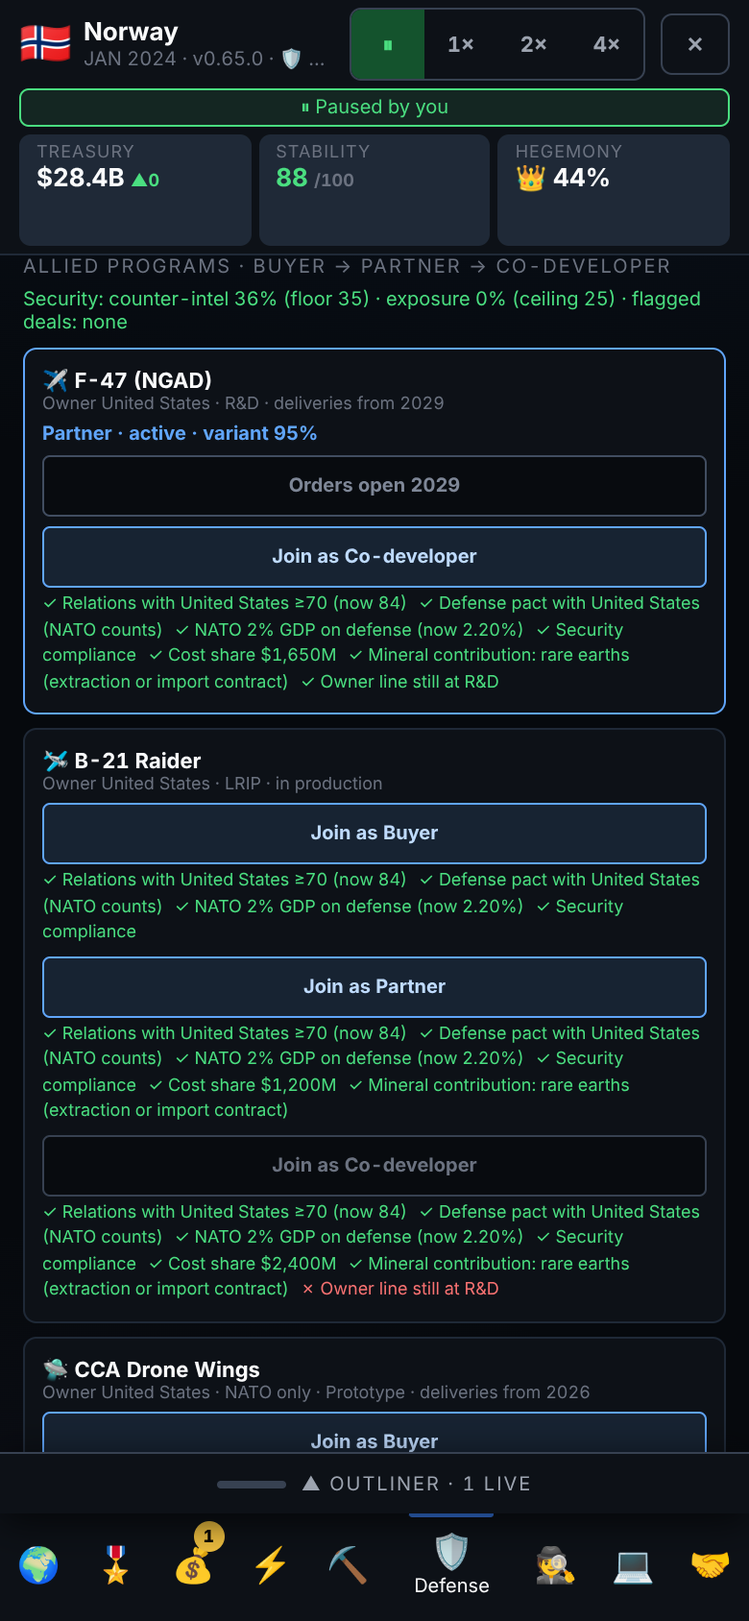
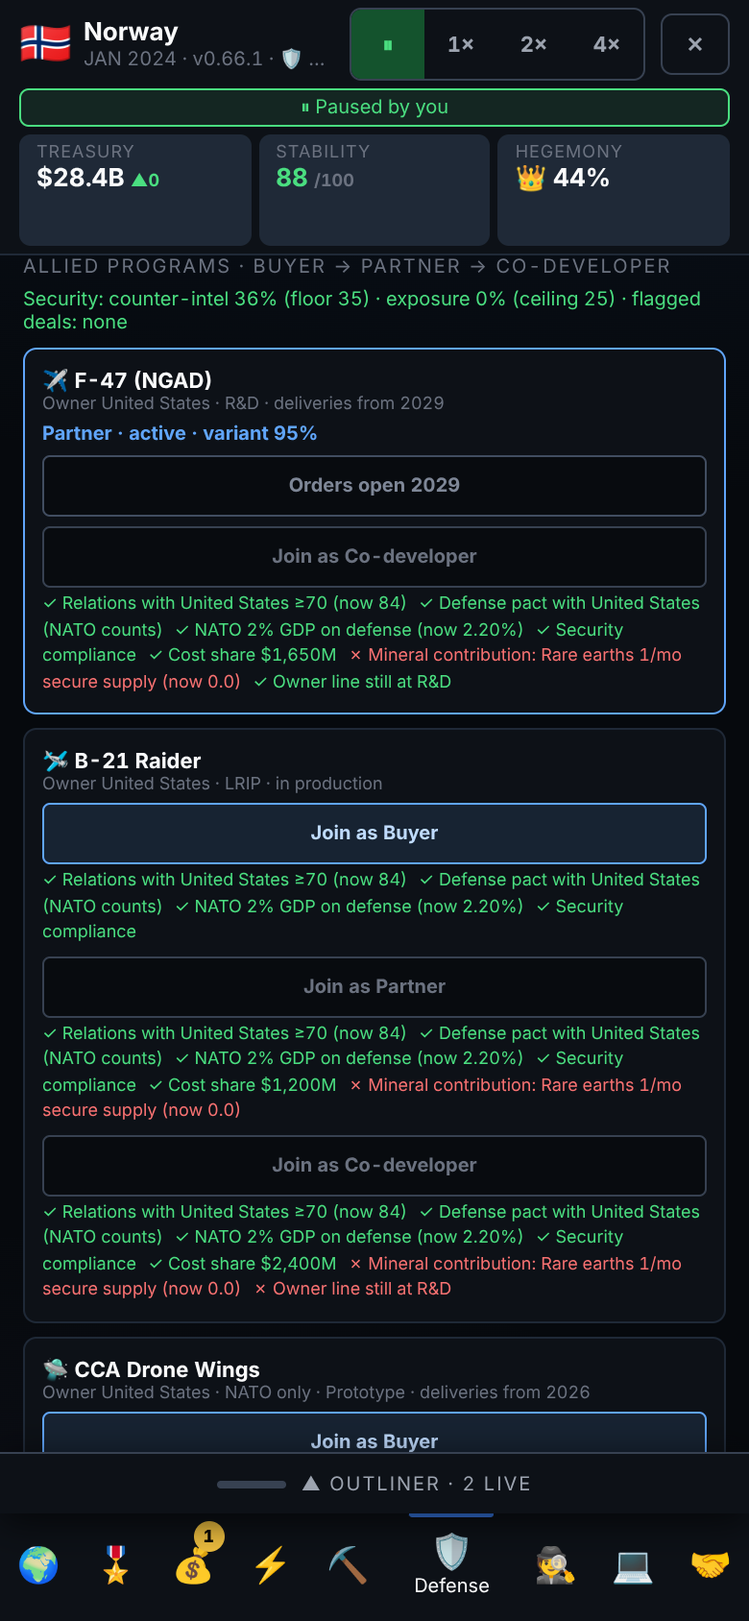
ui/resources+defense: minerals view and program supply line; 390px layout test, screenshots; v0.67.0 (E4, #16)
Claude-Session: https://claude.ai/code/session_012NiShB3VUyU1Tn8vBeinGh

diff --git a/src/ui/App.jsx b/src/ui/App.jsx
@@ -14,7 +14,9 @@ import { sumDep, isAllyOf, topHostile, wSum, isrScore, navalWeight, triadLegs, s
 import { naturalDrift } from '../sim/economy.js';
 import { runMonth } from '../sim/tick.js';
 import { applyVerb } from '../sim/actions.js';
-import { stateView, openingPosition, newArsenal } from '../sim/state.js';
+import { stateView, openingPosition, newArsenal, newMinerals } from '../sim/state.js';
+import { mineralView, programSupply, inputsOf } from '../sim/minerals.js';
+import { MINERALS, MINERAL_RULES } from '../data/minerals.js';
 import { blocTierReqs, blocCanAdvance, euTierNeed, blocGroups } from '../sim/selectors.js';
 import { VERSION, BUILD_STAMP } from './version.js';
 import { MapView } from './map/MapView.jsx';
@@ -112,6 +114,7 @@ function WorldLeadersInner({resumeSignal}){
   const [forcePosture,setForcePosture]=useState({});
   const [evState,setEvState]=useState(newEvState());
   const [arsenal,setArsenal]=useState(newArsenal());
+  const [minerals,setMinerals]=useState(newMinerals());const [openMineral,setOpenMineral]=useState(null);
   const [nukeLog,setNukeLog]=useState([]);
   const [embargoes,setEmbargoes]=useState(new Set());
   const [embargoedBy,setEmbargoedBy]=useState(null);
@@ -234,7 +237,7 @@ function WorldLeadersInner({resumeSignal}){
   const confCdR=useRef({});
   const postureR=useRef({});
   const evR=useRef(newEvState());
-  const arsR=useRef(newArsenal());
+  const arsR=useRef(newArsenal());const minR=useRef(newMinerals());
   const nukeR=useRef([]);
   const embgR=useRef(new Set());
   const embByR=useRef(null);
@@ -322,6 +325,7 @@ function WorldLeadersInner({resumeSignal}){
   useEffect(()=>{postureR.current=forcePosture;},[forcePosture]);
   useEffect(()=>{evR.current=evState;},[evState]);
   useEffect(()=>{arsR.current=arsenal;},[arsenal]);
+  useEffect(()=>{minR.current=minerals;},[minerals]);
   useEffect(()=>{embgR.current=embargoes;},[embargoes]);
   useEffect(()=>{sprR.current=spr;},[spr]);
   useEffect(()=>{sprRelR.current=sprRelease;},[sprRelease]);
@@ -348,7 +352,7 @@ function WorldLeadersInner({resumeSignal}){
   const ser=v=>v instanceof Set?{__set:[...v]}:v;
   const des=v=>(v&&typeof v==='object'&&Array.isArray(v.__set))?new Set(v.__set):v;
   const buildSave=()=>({ver:SAVE_VER,at:Date.now(),countryId:country?.id,doctrine,stats,date,tickCount:tickCountR.current,gracePeriod,issues,activeEffects,resources,resExtraction,defLevels,defResearch,spillApplied:ser(spillApplied),globalDef,defExports,sphere,intelOps,intelBudget,budgetAlloc,equilibriumStats,platforms,platformsImported,socialPrograms:ser(socialPrograms),victory,victoryShown,victoryType,hegHold,pathHold,personnelPay,procureMode,forceDeployments,flashpoint,gameSpeed,covertPrograms:ser(covertPrograms),intelInfra,moles,sanctions:ser(sanctions),importContracts:ser(importContracts),rivalHolds,nationRelations,embassies:ser(embassies),embassyMissions,influenceAlloc,influenceBudget,proxyAlloc,proxyBudget,sapOffice,blackPrograms,blackResearch,defensePacts:ser(defensePacts),tradeAgreements:ser(tradeAgreements),continuousOps,talentRetention,expertiseLease,rivalTension,intelPosture,blockades,blocTrade,blocLock,opecSwing,usedTech:ser(usedTech),worldEvent,demand,currencyPosture,ipPortfolio,ipPolicy,sectorMaturity,sectorAge,grrbState,activePolicies:ser(activePolicies),actionCooldowns,darpaDisc,usedDecisions:ser(usedDecisions),interestRate,taxPolicy,spendingMode,log,gameOver,
-    forcePosture,evState,arsenal,spr,sprRelease,concessions:ser(concessions),stewardship,exportShare,chokeDeals,platformDev,developed:ser(developed),nukeLog,embargoes:ser(embargoes),embargoedBy,refs:{respCd:respCdR.current,disinfo:disinfoR.current,expel:expelR.current,embLock:embLockR.current,ret:retR.current,ip:ipR.current,pariah:pariahR.current,confCd:confCdR.current}});
+    forcePosture,evState,arsenal,minerals,spr,sprRelease,concessions:ser(concessions),stewardship,exportShare,chokeDeals,platformDev,developed:ser(developed),nukeLog,embargoes:ser(embargoes),embargoedBy,refs:{respCd:respCdR.current,disinfo:disinfoR.current,expel:expelR.current,embLock:embLockR.current,ret:retR.current,ip:ipR.current,pariah:pariahR.current,confCd:confCdR.current}});
   const saveGame=async()=>{try{if(!window.storage||phase!=='play'||!country)return;await window.storage.set('wl_save',JSON.stringify(buildSave()));setLastSaved(`${MONTHS[date.mo]} ${date.yr}`);}catch(e){}};
   const restoreGame=async()=>{try{
     const r=await window.storage.get('wl_save');const g=JSON.parse(r.value);if(!g||g.ver!==SAVE_VER)return false;
@@ -372,11 +376,11 @@ function WorldLeadersInner({resumeSignal}){
     setIpPortfolio(g.ipPortfolio||0);ipR.current=g.refs?.ip??g.ipPortfolio??0;S(setIpPolicy,ipPolR,g.ipPolicy||'balanced');S(setSectorMaturity,maturityR,g.sectorMaturity||{});S(setSectorAge,ageR,g.sectorAge||{});
     S(setGrrbState,grrbR,g.grrbState||{surveying:false,surveyMo:0,unlocked:false});S(setActivePolicies,apR,des(g.activePolicies)||new Set());S(setActionCooldowns,cdR,g.actionCooldowns||{});setDarpaDisc(g.darpaDisc||0);S(setUsedDecisions,usedR,des(g.usedDecisions)||new Set());
     S(setInterestRate,irR,g.interestRate??4);S(setTaxPolicy,taxR,g.taxPolicy??28);S(setSpendingMode,spdR,g.spendingMode||'balanced');setLog(g.log||[]);setGameOver(g.gameOver||null);
-    respCdR.current=g.refs?.respCd||{};disinfoR.current=g.refs?.disinfo||{};pariahR.current=g.refs?.pariah||0;setPariah(pariahR.current);confCdR.current=g.refs?.confCd||{};S(setForcePosture,postureR,g.forcePosture||{});S(setEvState,evR,g.evState||newEvState());S(setArsenal,arsR,g.arsenal||newArsenal());S(setSpr,sprR,g.spr||0);S(setSprRelease,sprRelR,!!g.sprRelease);S(setConcessions,concR,des(g.concessions)||new Set());S(setStewardship,stewR,g.stewardship||{});S(setExportShare,shareR,g.exportShare||{oil:0.6,gas:0.6});S(setChokeDeals,cdealR,g.chokeDeals||{});S(setPlatformDev,pdevR,g.platformDev||{});S(setDeveloped,devR,des(g.developed)||new Set());setNukeLog(g.nukeLog||[]);nukeR.current=g.nukeLog||[];S(setEmbargoes,embgR,des(g.embargoes)||new Set());setEmbargoedBy(g.embargoedBy||null);embByR.current=g.embargoedBy||null;expelR.current=g.refs?.expel||{};embLockR.current=g.refs?.embLock||{};
+    respCdR.current=g.refs?.respCd||{};disinfoR.current=g.refs?.disinfo||{};pariahR.current=g.refs?.pariah||0;setPariah(pariahR.current);confCdR.current=g.refs?.confCd||{};S(setForcePosture,postureR,g.forcePosture||{});S(setEvState,evR,g.evState||newEvState());S(setArsenal,arsR,g.arsenal||newArsenal());S(setMinerals,minR,g.minerals||newMinerals(g.countryId));S(setSpr,sprR,g.spr||0);S(setSprRelease,sprRelR,!!g.sprRelease);S(setConcessions,concR,des(g.concessions)||new Set());S(setStewardship,stewR,g.stewardship||{});S(setExportShare,shareR,g.exportShare||{oil:0.6,gas:0.6});S(setChokeDeals,cdealR,g.chokeDeals||{});S(setPlatformDev,pdevR,g.platformDev||{});S(setDeveloped,devR,des(g.developed)||new Set());setNukeLog(g.nukeLog||[]);nukeR.current=g.nukeLog||[];S(setEmbargoes,embgR,des(g.embargoes)||new Set());setEmbargoedBy(g.embargoedBy||null);embByR.current=g.embargoedBy||null;expelR.current=g.refs?.expel||{};embLockR.current=g.refs?.embLock||{};
     setActiveTab('overview');setPhase('play');setLastSaved(`${MONTHS[g.date.mo]} ${g.date.yr}`);return true;}catch(e){try{console.error('restore failed',e);}catch(x){}return false;}};
   useEffect(()=>{(async()=>{try{if(!window.storage)return;const r=await window.storage.get('wl_save');const g=JSON.parse(r.value);if(g&&g.ver===SAVE_VER&&g.countryId){const cc=COUNTRIES.find(x=>x.id===g.countryId);setSaveInfo({flag:cc?.flag,name:cc?.n||g.countryId,when:`${MONTHS[g.date.mo]} ${g.date.yr}`});}}catch(e){}})();},[resumeSignal]);
   useEffect(()=>{if(phase==='play'&&date.mo%3===0&&tickCountR.current>0)saveGame();},[date.mo,date.yr,phase]);
-  useEffect(()=>{try{if(typeof window!=='undefined'&&window.__WL_TEST){window.__wl={month:()=>tick(),extract:(k,v)=>{extR.current={...extR.current,[k]:v};setResExtraction({...extR.current});},setTension:(cid,v)=>{setRivalTension(p=>({...p,[cid]:v}));tenR.current={...tenR.current,[cid]:v};},field:(id,n)=>{blackR.current={...blackR.current,[id]:n};setBlackPrograms({...blackR.current});},fund:v=>setStats(p=>({...p,treasury:v})),platforms:o=>{platformsR.current={...platformsR.current,...o};setPlatforms({...platformsR.current});},levels:o=>{dlR.current={...dlR.current,...o};setDefLevels({...dlR.current});},event:(id,mo)=>{wEvR.current={id,mo};setWorldEvent({id,mo});},flashpoint:(rid,type,t)=>{const fp={rid,type,t};fpR.current=fp;setFlashpoint(fp);},deploy:(rid,pid,n)=>{setForceDeployments(pr=>{const n2={...pr,[rid]:{...(pr[rid]||{}),[pid]:n}};fdR.current=n2;return n2;});},stat:(k,v)=>{setStats(p=>({...p,[k]:v}));if(sR.current)sR.current={...sR.current,[k]:v};},rel:(id,v)=>{setNationRelations(p=>({...p,[id]:v}));relR.current={...relR.current,[id]:v};},unfreeze:()=>{setBlocLock({});bLockR.current={};},embargoBy:(by,mo)=>{const e={by,mo};embByR.current=e;setEmbargoedBy(e);},imports:(ks)=>{const n2=new Set(ks);impCR.current=n2;setImportContracts(n2);},sanction:(id)=>{setSanctions(prev=>{const n2=new Set(prev);n2.add(id);sanctR.current=n2;return n2;});}};}}catch(e){}},[]);
+  useEffect(()=>{try{if(typeof window!=='undefined'&&window.__WL_TEST){window.__wl={month:()=>tick(),extract:(k,v)=>{extR.current={...extR.current,[k]:v};setResExtraction({...extR.current});},setTension:(cid,v)=>{setRivalTension(p=>({...p,[cid]:v}));tenR.current={...tenR.current,[cid]:v};},field:(id,n)=>{blackR.current={...blackR.current,[id]:n};setBlackPrograms({...blackR.current});},fund:v=>setStats(p=>({...p,treasury:v})),platforms:o=>{platformsR.current={...platformsR.current,...o};setPlatforms({...platformsR.current});},levels:o=>{dlR.current={...dlR.current,...o};setDefLevels({...dlR.current});},event:(id,mo)=>{wEvR.current={id,mo};setWorldEvent({id,mo});},flashpoint:(rid,type,t)=>{const fp={rid,type,t};fpR.current=fp;setFlashpoint(fp);},deploy:(rid,pid,n)=>{setForceDeployments(pr=>{const n2={...pr,[rid]:{...(pr[rid]||{}),[pid]:n}};fdR.current=n2;return n2;});},stat:(k,v)=>{setStats(p=>({...p,[k]:v}));if(sR.current)sR.current={...sR.current,[k]:v};},rel:(id,v)=>{setNationRelations(p=>({...p,[id]:v}));relR.current={...relR.current,[id]:v};},unfreeze:()=>{setBlocLock({});bLockR.current={};},embargoBy:(by,mo)=>{const e={by,mo};embByR.current=e;setEmbargoedBy(e);},imports:(ks)=>{const n2=new Set(ks);impCR.current=n2;setImportContracts(n2);},minerals:(o)=>{minR.current={...minR.current,...o};setMinerals(minR.current);},mineral:(m,o)=>{const own={...minR.current.own,[m]:{...minR.current.own[m],...o}};minR.current={...minR.current,own};setMinerals(minR.current);},sanction:(id)=>{setSanctions(prev=>{const n2=new Set(prev);n2.add(id);sanctR.current=n2;return n2;});}};}}catch(e){}},[]);
   const startGame=useCallback(c=>{
     const {stats:s,issues:pre,resources:initRes,sphere:initSphere,globalDef:excGDB,defLevels:sd,nationRelations:baseRel,prevSectorLevels}=openingPosition(c);
     setCountry(c);setStats(s);setIssues(pre);setInterestRate(c.ir||4.0);
@@ -415,7 +419,7 @@ function WorldLeadersInner({resumeSignal}){
     setEmbassies(new Set());embR.current=new Set();
     setInfluenceAlloc({});iaR.current={};setInfluenceBudget(0);ibR.current=0;
     setDefensePacts(new Set());pactR.current=new Set();setTradeAgreements(new Set());tradeAgR.current=new Set();setSelDipNation(null);
-    setContinuousOps({});contOpsR.current={};setTalentRetention(70);setExpertiseLease(0);leaseR.current=0;retR.current=70;tickCountR.current=0;respCdR.current={};setRivalTension({});tenR.current={};setIntelPosture('quiet');postR.current='quiet';setBlockades({});blkR.current={};setConfrontation(null);disinfoR.current={};expelR.current={};setBlocTrade({eu:0,cn:0,opec:0});btR.current={eu:0,cn:0,opec:0};setBlocLock({});bLockR.current={};setOpecSwing(null);swingR.current=null;setUsedTech(new Set());setWorldEvent(null);wEvR.current=null;setDemand({});demR.current={};setCurrencyPosture('neutral');curR.current='neutral';setEmbassyMissions({});embMisR.current={};embLockR.current={};setUltimatum(null);ultR.current=null;setPariah(0);pariahR.current=0;confCdR.current={};setForcePosture({});postureR.current={};setEvState(newEvState());evR.current=newEvState();setArsenal(newArsenal(c.id));arsR.current=newArsenal(c.id);setNukeLog([]);nukeR.current=[];setEmbargoes(new Set());embgR.current=new Set();setEmbargoedBy(null);embByR.current=null;setSpr(0);sprR.current=0;setSprRelease(false);sprRelR.current=false;setConcessions(new Set());concR.current=new Set();setChokeStatus({});chokeR.current={};setStewardship({});stewR.current={};setExportShare({oil:0.6,gas:0.6});shareR.current={oil:0.6,gas:0.6};setChokeDeals({});cdealR.current={};setPlatformDev({});pdevR.current={};setDeveloped(new Set());devR.current=new Set();setVictoryType('hegemony');setPathHold({econ:0,tech:0,dip:0});pathHoldR.current={econ:0,tech:0,dip:0};setIpPortfolio(0);ipR.current=0;setIpPolicy('balanced');ipPolR.current='balanced';
+    setContinuousOps({});contOpsR.current={};setTalentRetention(70);setExpertiseLease(0);leaseR.current=0;retR.current=70;tickCountR.current=0;respCdR.current={};setRivalTension({});tenR.current={};setIntelPosture('quiet');postR.current='quiet';setBlockades({});blkR.current={};setConfrontation(null);disinfoR.current={};expelR.current={};setBlocTrade({eu:0,cn:0,opec:0});btR.current={eu:0,cn:0,opec:0};setBlocLock({});bLockR.current={};setOpecSwing(null);swingR.current=null;setUsedTech(new Set());setWorldEvent(null);wEvR.current=null;setDemand({});demR.current={};setCurrencyPosture('neutral');curR.current='neutral';setEmbassyMissions({});embMisR.current={};embLockR.current={};setUltimatum(null);ultR.current=null;setPariah(0);pariahR.current=0;confCdR.current={};setForcePosture({});postureR.current={};setEvState(newEvState());evR.current=newEvState();setArsenal(newArsenal(c.id));arsR.current=newArsenal(c.id);setMinerals(newMinerals(c.id));minR.current=newMinerals(c.id);setNukeLog([]);nukeR.current=[];setEmbargoes(new Set());embgR.current=new Set();setEmbargoedBy(null);embByR.current=null;setSpr(0);sprR.current=0;setSprRelease(false);sprRelR.current=false;setConcessions(new Set());concR.current=new Set();setChokeStatus({});chokeR.current={};setStewardship({});stewR.current={};setExportShare({oil:0.6,gas:0.6});shareR.current={oil:0.6,gas:0.6};setChokeDeals({});cdealR.current={};setPlatformDev({});pdevR.current={};setDeveloped(new Set());devR.current=new Set();setVictoryType('hegemony');setPathHold({econ:0,tech:0,dip:0});pathHoldR.current={econ:0,tech:0,dip:0};setIpPortfolio(0);ipR.current=0;setIpPolicy('balanced');ipPolR.current='balanced';
     setProxyAlloc({});paR.current={};setProxyBudget(0);pbR.current=0;
     setSapOffice(false);sapR.current=false;setBlackPrograms({});blackR.current={};setBlackResearch(null);blackResR.current=null;
     setFlashpoint(null);fpR.current=null;
@@ -441,8 +445,8 @@ function WorldLeadersInner({resumeSignal}){
   // dispatch({type, payload}) into applyVerb (actions.js). The UI keeps only presentation state.
   const evView={worldEvent,flashpoint,stats:stats||{},spr,forceDeployments,chokeDeals,country,nationRelations,date,rivalTension,activeDecision};
   const evOpen=openEventCards(evView);
-  const liveState=()=>stateView({stats:sR,country:cR,issues:issR,investigations:invR,deployments:depR,briefs:brR,date:dateR,activeEffects:aeR,resources:resR,resExtraction:extR,defLevels:dlR,defResearch:drR,spillApplied:spR,globalDef:gdR,defExports:exR,sphere:sphR,activePolicies:apR,actionCooldowns:cdR,darpaDisc:ddR,activeDecision:decR,usedDecisions:usedR,interestRate:irR,taxPolicy:taxR,spendingMode:spdR,intelOps:intelR,grrbState:grrbR,budgetAlloc:budgetR,equilibriumStats:equilibriumR,gracePeriod:graceR,intelBudget:intelBudgetR,doctrine:doctrineR,platforms:platformsR,socialPrograms:socialR,victory:victoryR,hegHold:hegHoldR,personnelPay:payR,procureMode:procR,forceDeployments:fdR,flashpoint:fpR,sphereSnapshot:trendSnapR,trendTimer:trendTimerR,platformsImported:impR,covertPrograms:covR,foreignOpTimer:foreignOpR,absorbBonus:absorbR,intelInfra:infraR,moles:molesR,sanctions:sanctR,importContracts:impCR,nationRelations:relR,embassies:embR,influenceAlloc:iaR,influenceBudget:ibR,proxyAlloc:paR,proxyBudget:pbR,sapOffice:sapR,blackPrograms:blackR,blackResearch:blackResR,defensePacts:pactR,tradeAgreements:tradeAgR,continuousOps:contOpsR,expertiseLease:leaseR,talentRetention:retR,tickCount:tickCountR,ipPortfolio:ipR,ipPolicy:ipPolR,dominance:domR,dominanceLeverage:domLevR,noticeCooldowns:respCdR,rivalTension:tenR,intelPosture:postR,blockades:blkR,disinfo:disinfoR,expelled:expelR,confrontation:confR,blocTrade:btR,blocLock:bLockR,opecSwing:swingR,worldEvent:wEvR,demand:demR,currencyPosture:curR,embassyMissions:embMisR,embassyLocks:embLockR,ultimatum:ultR,pariah:pariahR,confrontationCooldowns:confCdR,forcePosture:postureR,evState:evR,arsenal:arsR,nukeLog:nukeR,embargoes:embgR,embargoedBy:embByR,spr:sprR,sprRelease:sprRelR,concessions:concR,chokeStatus:chokeR,stewardship:stewR,exportShare:shareR,chokeDeals:cdealR,platformDev:pdevR,developed:devR,pathHold:pathHoldR,usedTech:usedTechR,rivalHolds:rivalHoldR,sectorMaturity:maturityR,sectorAge:ageR,prevSectorLevels:prevLvlR,decisionTimer:decTimer,pressureTimer:compTimer});
-  const sink={setCountry,setStats,setIssues,setInvestigations,setBriefs,setDeployments,setActiveEffects,setResources,setResExtraction,setDefLevels,setDefResearch,setSpillApplied,setGlobalDef,setDefExports,setSphere,setIntelOps,setIntelBudget,setBudgetAlloc,setEquilibriumStats,setGracePeriod,setDoctrine,setPlatforms,setSocialPrograms,setVictory,setHegHold,setPersonnelPay,setProcureMode,setForceDeployments,setFlashpoint,setSphereTrend,setPlatformsImported,setCovertPrograms,setIntelInfra,setMoles,setSanctions,setImportContracts,setRivalHolds,setNationRelations,setEmbassies,setInfluenceAlloc,setInfluenceBudget,setProxyAlloc,setProxyBudget,setSapOffice,setBlackPrograms,setBlackResearch,setDefensePacts,setTradeAgreements,setContinuousOps,setTalentRetention,setExpertiseLease,setRivalTension,setIntelPosture,setBlockades,setConfrontation,setBlocTrade,setBlocLock,setOpecSwing,setLedger,setUsedTech,setWorldEvent,setDemand,setCurrencyPosture,setEmbassyMissions,setUltimatum,setPariah,setForcePosture,setEvState,setArsenal,setNukeLog,setEmbargoes,setEmbargoedBy,setSpr,setSprRelease,setConcessions,setChokeStatus,setStewardship,setExportShare,setChokeDeals,setPlatformDev,setDeveloped,setVictoryType,setPathHold,setIpPortfolio,setIpPolicy,setSectorMaturity,setSectorAge,setIntelCrisis,setGrrbState,setActivePolicies,setActionCooldowns,setDarpaDisc,setActiveDecision,setUsedDecisions,setInterestRate,setTaxPolicy,setSpendingMode,setDate,setLog,setStatsTrend,setGameOver};
+  const liveState=()=>stateView({stats:sR,country:cR,issues:issR,investigations:invR,deployments:depR,briefs:brR,date:dateR,activeEffects:aeR,resources:resR,resExtraction:extR,defLevels:dlR,defResearch:drR,spillApplied:spR,globalDef:gdR,defExports:exR,sphere:sphR,activePolicies:apR,actionCooldowns:cdR,darpaDisc:ddR,activeDecision:decR,usedDecisions:usedR,interestRate:irR,taxPolicy:taxR,spendingMode:spdR,intelOps:intelR,grrbState:grrbR,budgetAlloc:budgetR,equilibriumStats:equilibriumR,gracePeriod:graceR,intelBudget:intelBudgetR,doctrine:doctrineR,platforms:platformsR,socialPrograms:socialR,victory:victoryR,hegHold:hegHoldR,personnelPay:payR,procureMode:procR,forceDeployments:fdR,flashpoint:fpR,sphereSnapshot:trendSnapR,trendTimer:trendTimerR,platformsImported:impR,covertPrograms:covR,foreignOpTimer:foreignOpR,absorbBonus:absorbR,intelInfra:infraR,moles:molesR,sanctions:sanctR,importContracts:impCR,nationRelations:relR,embassies:embR,influenceAlloc:iaR,influenceBudget:ibR,proxyAlloc:paR,proxyBudget:pbR,sapOffice:sapR,blackPrograms:blackR,blackResearch:blackResR,defensePacts:pactR,tradeAgreements:tradeAgR,continuousOps:contOpsR,expertiseLease:leaseR,talentRetention:retR,tickCount:tickCountR,ipPortfolio:ipR,ipPolicy:ipPolR,dominance:domR,dominanceLeverage:domLevR,noticeCooldowns:respCdR,rivalTension:tenR,intelPosture:postR,blockades:blkR,disinfo:disinfoR,expelled:expelR,confrontation:confR,blocTrade:btR,blocLock:bLockR,opecSwing:swingR,worldEvent:wEvR,demand:demR,currencyPosture:curR,embassyMissions:embMisR,embassyLocks:embLockR,ultimatum:ultR,pariah:pariahR,confrontationCooldowns:confCdR,forcePosture:postureR,evState:evR,arsenal:arsR,minerals:minR,nukeLog:nukeR,embargoes:embgR,embargoedBy:embByR,spr:sprR,sprRelease:sprRelR,concessions:concR,chokeStatus:chokeR,stewardship:stewR,exportShare:shareR,chokeDeals:cdealR,platformDev:pdevR,developed:devR,pathHold:pathHoldR,usedTech:usedTechR,rivalHolds:rivalHoldR,sectorMaturity:maturityR,sectorAge:ageR,prevSectorLevels:prevLvlR,decisionTimer:decTimer,pressureTimer:compTimer});
+  const sink={setCountry,setStats,setIssues,setInvestigations,setBriefs,setDeployments,setActiveEffects,setResources,setResExtraction,setDefLevels,setDefResearch,setSpillApplied,setGlobalDef,setDefExports,setSphere,setIntelOps,setIntelBudget,setBudgetAlloc,setEquilibriumStats,setGracePeriod,setDoctrine,setPlatforms,setSocialPrograms,setVictory,setHegHold,setPersonnelPay,setProcureMode,setForceDeployments,setFlashpoint,setSphereTrend,setPlatformsImported,setCovertPrograms,setIntelInfra,setMoles,setSanctions,setImportContracts,setRivalHolds,setNationRelations,setEmbassies,setInfluenceAlloc,setInfluenceBudget,setProxyAlloc,setProxyBudget,setSapOffice,setBlackPrograms,setBlackResearch,setDefensePacts,setTradeAgreements,setContinuousOps,setTalentRetention,setExpertiseLease,setRivalTension,setIntelPosture,setBlockades,setConfrontation,setBlocTrade,setBlocLock,setOpecSwing,setLedger,setUsedTech,setWorldEvent,setDemand,setCurrencyPosture,setEmbassyMissions,setUltimatum,setPariah,setForcePosture,setEvState,setArsenal,setMinerals,setNukeLog,setEmbargoes,setEmbargoedBy,setSpr,setSprRelease,setConcessions,setChokeStatus,setStewardship,setExportShare,setChokeDeals,setPlatformDev,setDeveloped,setVictoryType,setPathHold,setIpPortfolio,setIpPolicy,setSectorMaturity,setSectorAge,setIntelCrisis,setGrrbState,setActivePolicies,setActionCooldowns,setDarpaDisc,setActiveDecision,setUsedDecisions,setInterestRate,setTaxPolicy,setSpendingMode,setDate,setLog,setStatsTrend,setGameOver};
   const engineFx={toast:showToast,now:()=>Date.now(),defer:(fn,ms)=>setTimeout(fn,ms)};
   const dispatch=useCallback(a=>applyVerb(liveState(),sink,engineFx,a),[showToast]);
 
@@ -1259,6 +1263,35 @@ function WorldLeadersInner({resumeSignal}){
                 {[['☀','Solar','solar','#fbbf24'],['💨','Wind','wind','#60a5fa'],['💧','Hydro','hydro','#4ade80']].map(([em,n,k,col])=>{const lvl=resources?.renewable?.[k]||0;return <div key={k} style={{background:'#111827',borderRadius:'5px',padding:'8px',textAlign:'center'}}><div style={{fontSize:'16px'}}>{em}</div><div style={{fontSize:'11px',color:'#9ca3af',marginBottom:'4px'}}>{n}</div><div style={{display:'flex',gap:'2px',justifyContent:'center'}}>{Array.from({length:5}).map((_,i)=><div key={i} style={{width:'6px',height:'6px',borderRadius:'50%',background:i<lvl?col:'#374151'}}/>)}</div><button onClick={()=>dispatch({type:'buildRenewable',payload:{kind:k}})} style={{marginTop:'5px',width:'100%',background:lvl>=5?'transparent':'rgba(0,0,0,.4)',border:`1px solid ${lvl>=5?'#374151':col}`,color:lvl>=5?'#4b5563':col,padding:'4px',borderRadius:'3px',fontSize:'10px'}}>{lvl>=5?'Max':`+$400M`}</button></div>;})}</div>
             </div>
           </div>
+          {/* E4 (#16): minerals and processing. Minimal lever UI; E5 redesigns it. Rows and costs from mineralView (one rule with the month). */}
+          {(()=>{const v={country,minerals,nationRelations};const rows=mineralView(v);const R=MINERAL_RULES;const nb=NATIONS[country?.id]?.bloc;const canPact=nb==='west'||nb==='east';
+            const btn=(on,warn)=>({background:on?'rgba(167,139,250,.12)':'rgba(0,0,0,.35)',border:`1px solid ${warn?'#f87171':on?'#a78bfa':'#374151'}`,color:warn?'#fca5a5':on?'#ddd6fe':'#9ca3af',padding:'6px 8px',borderRadius:'4px',fontSize:'10px',fontWeight:700,minHeight:'32px'});
+            const f1=(x)=>x.toFixed(1);
+            return <div data-minerals style={{maxWidth:'650px',marginTop:'14px'}}>
+              <div style={{fontSize:'10px',color:'#6b7280',textTransform:'uppercase',letterSpacing:'1px',marginBottom:'5px'}}>Minerals · ore → processing → refined stockpile</div>
+              <div style={{fontSize:'10px',color:'#9ca3af',marginBottom:'7px',lineHeight:1.5}}>Production tranches draw refined minerals; a shortfall slows the line, never cancels it. 1 unit/mo ≈ 1% of world refining.</div>
+              {canPact&&<button onClick={()=>dispatch({type:'toggleProcessingPact',payload:{}})} style={{...btn(minerals.pact),width:'100%',marginBottom:'7px'}}>{minerals.pact?`🤝 Processing pact active · $${R.pact.cost}M/mo — end`:`🤝 Processing pact · bloc partners supply you first — $${R.pact.cost}M/mo`}</button>}
+              <div style={{display:'grid',gap:'6px'}}>{rows.map(r=>{const open=openMineral===r.id;const short=r.controlledBy.length>0;
+                return <div key={r.id} data-mineral={r.id} style={{background:'#0d1117',border:`1px solid ${short?'#7f1d1d':open?'#a78bfa':'#1f2937'}`,borderRadius:'7px',padding:'8px',minWidth:0}}>
+                  <button data-mineral-head onClick={()=>setOpenMineral(open?null:r.id)} style={{all:'unset',cursor:'pointer',display:'block',width:'100%'}}>
+                    <div style={{display:'flex',justifyContent:'space-between',gap:'6px',fontSize:'11px',fontWeight:700,color:'#f9fafb'}}><span>{r.i} {r.n}</span><span style={{color:r.stock<5?'#f87171':'#a3e635'}}>{Math.floor(r.stock)}/{R.stockMax}</span></div>
+                    <div style={{fontSize:'9px',color:'#9ca3af',marginTop:'2px'}}>ore {Math.round(r.ore)} · processing {r.cap}/mo · in +{f1(r.flow.total)}/mo{r.reserve?` · reserve ${r.reserve}`:''}{short?<span style={{color:'#f87171'}}> · ⛔ {r.controlledBy.join(', ')} {r.controlledBy.length>1?'control':'controls'} exports</span>:''}{r.controlled?<span style={{color:'#fbbf24'}}> · 🔒 you control</span>:''}</div>
+                  </button>
+                  {open&&<div style={{marginTop:'6px',display:'grid',gap:'5px'}}>
+                    <div style={{fontSize:'9px',color:'#6b7280',lineHeight:1.5}}>Use: {r.use}. Inflow: home {f1(r.flow.dom)} · recycling {f1(r.flow.rec)} · offtake {f1(r.flow.off)} · pact {f1(r.flow.pact)} · market {f1(r.flow.mkt)} · secure {f1(r.flow.secure)}/mo{r.upkeep?` · costs $${r.upkeep}M/mo`:''}</div>
+                    <div style={{fontSize:'9px',color:'#d1d5db'}}>reserve {r.reserve}/{R.reserveMax} · {r.releasing?'releasing':'on hold'}{r.built?` · ${r.built} plant${r.built>1?'s':''} built`:''}{r.plants.map((p,i)=><span key={i}> · 🏗 plant {p.mo}mo</span>)}</div>
+                    {r.deals.map(d=><div key={d.n} style={{display:'flex',justifyContent:'space-between',alignItems:'center',gap:'6px',fontSize:'10px',color:d.paused?'#f87171':'#d1d5db'}}><span>📄 {d.name} {d.units}/mo · ${d.price}M/mo · {d.mo}mo{d.paused?' · paused':''}</span><button onClick={()=>dispatch({type:'cancelOfftake',payload:{mineral:r.id,nation:d.n}})} style={btn(false)}>Cancel</button></div>)}
+                    <div style={{display:'flex',flexWrap:'wrap',gap:'4px'}}>
+                      <button onClick={()=>dispatch({type:'buildPlant',payload:{mineral:r.id}})} style={btn(true)}>🏗 Build plant ${R.plant.capex.toLocaleString()}M · {R.plant.mo}mo · +{r.ore>0?R.plant.add:R.plant.add*R.noOreEff}/mo{r.ore>0?'':' (no ore: imported concentrate)'}</button>
+                      <button onClick={()=>dispatch({type:'buyStockpile',payload:{mineral:r.id}})} style={btn(true)}>📦 Buy reserve ${Math.round(R.stockpile.lot*r.price*R.stockpile.markup)}M</button>
+                      <button onClick={()=>dispatch({type:'toggleStockpileRelease',payload:{mineral:r.id}})} style={btn(r.releasing)}>{r.releasing?'⏸ Hold reserve':'▶ Release reserve'}</button>
+                      {r.id!=='enrichment'&&<button onClick={()=>dispatch({type:'toggleRecycling',payload:{mineral:r.id}})} style={btn(r.recycling)}>{r.recycling?'♻ Stop recycling':`♻ Recycle +${R.recycle.add}/mo · $${R.recycle.cost}M/mo`}</button>}
+                      {r.partners.map(pn=><button key={pn.id} onClick={()=>dispatch({type:'signOfftake',payload:{mineral:r.id,nation:pn.id}})} style={btn(true)}>📄 Offtake · {pn.n} {pn.units}/mo ${pn.price}M/mo</button>)}
+                      {r.canControl&&<button onClick={()=>dispatch({type:'toggleExportControl',payload:{mineral:r.id}})} style={btn(r.controlled,!r.controlled)}>{r.controlled?'🔓 Lift export control':`🔒 Export control · −${R.controls.relHit} relations`}</button>}
+                    </div>
+                  </div>}
+                </div>;})}</div>
+            </div>;})()}
         </div>}
 
         {/* DEFENSE TAB */}
@@ -1390,6 +1423,11 @@ function WorldLeadersInner({resumeSignal}){
                     {live?(()=>{const n=r.n;const runCost=r.cost;const canRun=!r.block;const indOk=!/industrial base/.test(r.block||'');
                       return <div>
                         <div style={{fontSize:'9px',color:'#a78bfa'}}>+{bp.mil} military{bp.isr?` · +${bp.isr} ISR`:bp.bonus==='multiplier'?' · air ×1.15':bp.bonus==='deterrent'?' · nuclear deterrent':''} · <b style={{color:'#c4b5fd'}}>{n} unit{n===1?'':'s'}</b>{n>0?` · force mil +${Math.round(bp.mil*Math.sqrt(n))} · next tranche at ${Math.round(sapRate(r.stage==='full'?Math.max(n,6):n)*100)}% of program`:''}</div>
+                        {(()=>{const sp=programSupply({country,minerals},bid);const q=sp.queued;const nm=(m)=>MINERALS[m]?.n||m;
+                          return <div data-supply style={{fontSize:'9px',marginTop:'3px',color:q.length?'#f87171':sp.coverage<1?'#fbbf24':'#6b7280',lineHeight:1.5}}>
+                            {q.length?<b>⏳ {q.length} tranche{q.length>1?'s':''} slowed: {nm(q[0].binding)} short · ~{q[0].months===Infinity?'∞':q[0].months}mo</b>:<span>Supply {Math.round(sp.coverage*100)}%{sp.binding?` · short of ${nm(sp.binding)}`:''}</span>}
+                            <span style={{color:'#6b7280'}}> · per tranche {Object.entries(inputsOf(bid)).map(([m,u])=>`${MINERALS[m].i}${u}`).join(' ')}</span>
+                          </div>;})()}
                         <button onClick={()=>dispatch({type:'sapTranche',payload:{program:bid}})} style={{marginTop:'4px',width:'100%',background:canRun?'rgba(167,139,250,.12)':'rgba(0,0,0,.35)',border:`1px solid ${canRun?'#a78bfa':'#374151'}`,color:canRun?'#c4b5fd':'#4b5563',padding:'5px',borderRadius:'4px',fontSize:'10px',fontWeight:700}}>{n>0?`🏭 Tranche #${n+1} — $${runCost}M${indOk?'':' · needs Materials L4'}`:`🏭 Produce ${bp.n} — $${runCost}M`}</button>
                       </div>;})()
                     :researching?<div style={{fontSize:'10px',color:'#3b82f6',fontWeight:700}}>⏳ {r.monthsLeft}mo to {r.start==='proto'?'LRIP':'operational'}</div>

diff --git a/scripts/screens.js b/scripts/screens.js
@@ -67,17 +67,38 @@ SCENARIOS['e3-china-catalog-390'] = async (page) => {
   await press('j36', 'Fund prototype'); await settle(page, 200); await press('j50', 'Fund prototype'); await settle(page, 200);
   await settle(page, 4500); await catalogShot(page, 'j36');
 };
-// E7 (#19): Norway's F-47 partnership: gates before joining, then Buyer -> Partner after supplying rare earths.
+// E7 (#19): Norway's F-47 partnership: gates before joining, then Buyer -> Partner after supplying rare earths (E4: a recycling line).
 const norwayAccess = async (page, join) => {
   await startNation(page, 'Norway'); await pause(page);
   await page.evaluate(() => { const h = window.__wl; h.fund(30000); h.rel('usa', 78); }); await settle(page, 300);
   await page.evaluate(() => document.querySelector('[data-tab=defense]').click()); await settle(page, 400);
   const press = (re) => page.evaluate((r) => [...document.querySelectorAll('[data-access=f47] button')].find((b) => new RegExp(r).test(b.textContent))?.click(), re);
-  if (join) { await press('Join as Buyer'); await settle(page, 200); await page.evaluate(() => window.__wl.extract('rareEarth', 1)); await settle(page, 300); await press('Join as Partner'); await settle(page, 4500); }
+  if (join) { await press('Join as Buyer'); await settle(page, 200); await page.evaluate(() => window.__wl.minerals({ recycle: ['rareEarth'] })); await settle(page, 300); await press('Join as Partner'); await settle(page, 4500); }
   await page.evaluate(() => document.querySelector('[data-partnerships]').scrollIntoView({ block: 'start' })); await settle(page, 400);
 };
 SCENARIOS['e7-norway-gates-390'] = (page) => norwayAccess(page, false);
 SCENARIOS['e7-norway-partner-390'] = (page) => norwayAccess(page, true);
+// E4 (#16): the minerals view under Chinese export controls (gallium row open), and an F-35 tranche slowed by the shortfall.
+const IDS = ['rareEarth', 'gallium', 'germanium', 'graphite', 'lithium', 'cobalt', 'nickel', 'tungsten', 'titanium', 'enrichment'];
+const chinaControls = async (page) => {
+  await inGame(page); await pause(page);
+  await page.evaluate((ids) => { const h = window.__wl; h.fund(60000); for (const m of ids) h.mineral(m, { stock: 0 }); h.setTension('china', 90); }, IDS); await settle(page, 300);
+  await page.evaluate(() => window.__wl.month()); await settle(page, 400);
+};
+SCENARIOS['e4-minerals-390'] = async (page) => {
+  await chinaControls(page);
+  await page.evaluate(() => document.querySelector('[data-tab=resources]').click()); await settle(page, 400);
+  await page.evaluate(() => document.querySelector('[data-mineral=gallium] [data-mineral-head]').click()); await settle(page, 300);
+  await page.evaluate(() => [...document.querySelectorAll('[data-mineral=gallium] button')].find((b) => /Build plant/.test(b.textContent)).click()); await settle(page, 300);
+  await page.evaluate(() => document.querySelector('[data-minerals]').scrollIntoView({ block: 'start' })); await settle(page, 400);
+};
+SCENARIOS['e4-slowdown-390'] = async (page) => {
+  await chinaControls(page);
+  await page.evaluate((ids) => { for (const m of ids) window.__wl.mineral(m, { stock: 0 }); }, IDS); await settle(page, 300);
+  await page.evaluate(() => document.querySelector('[data-tab=defense]').click()); await settle(page, 400);
+  await page.evaluate(() => [...document.querySelectorAll('[data-program=f35] button')].find((b) => /Tranche|Produce/.test(b.textContent)).click()); await settle(page, 400);
+  await page.evaluate(() => document.querySelector('[data-program=f35]').scrollIntoView({ block: 'center' })); await settle(page, 400);
+};
 // E9 (#23): the issue loop on the Intel tab at 390px: the list, a ready brief (with its card), a running deployment.
 // One engine month per call with a render between (a tight loop would tick on stale refs).
 const adv = async (page, n) => { for (let i = 0; i < n; i++) { await page.evaluate(() => window.__wl.month()); await settle(page, 200); } };

diff --git a/test/layout.test.js b/test/layout.test.js
@@ -43,6 +43,21 @@ test('390px: HUD speed control and all three figures are fully on screen; nav re
   } finally { await ctx.close(); }
 });
 
+test('390px: Resources minerals view with every row open stays inside the screen (E4, #16)', async () => {
+  const { ctx, page, errors } = await openGame(browser, { width: 390 });
+  try {
+    await go(page, 'resources');
+    const ids = await page.evaluate(() => [...document.querySelectorAll('[data-mineral]')].map((r) => r.dataset.mineral));
+    assert.equal(ids.length, 10);
+    for (const id of ids) {
+      await page.evaluate((id) => document.querySelector(`[data-mineral=${id}] [data-mineral-head]`).click(), id); await settle(page, 120);
+      const o = await overflow(page, 390);
+      assert.ok(o.scrollWidth <= 390, `${id}: scrollWidth ${o.scrollWidth}`); assert.deepEqual(o.bad, [], `${id}: elements past the right edge`);
+    }
+    assert.deepEqual(errors, []);
+  } finally { await ctx.close(); }
+});
+
 test('390px: six map-mode chips fit inside the map card, equal width, none clipped', async () => {
   const { ctx, page } = await openGame(browser, { width: 390 });
   try {

diff --git a/CHANGELOG.md b/CHANGELOG.md
@@ -1,5 +1,15 @@
 # Changelog
 
+## 0.67.0 (2026-10-10) — E4 (#16): minerals and processing chain; E7 mineral gate made real
+- Rule change (intentional): `src/data/minerals.js` (10 minerals: rare earths, gallium, germanium, graphite, lithium, cobalt, nickel, tungsten, titanium, uranium enrichment). Per nation ore reserves -> processing capacity (1 unit/mo = 1% of 2024 world refining) -> refined stockpile. China leads processing of 8/10; the USA holds ore it cannot refine (rare earths, graphite, lithium, cobalt, nickel, tungsten). Abstractions documented in the file: plants run on imported concentrate at 60% without ore; open-market imports are priced into the tranche; AI capacity is static; `row` is a rest-of-world market bucket, not a nation. Every playable nation starts with one tranche of each in-service line in stock.
+- Engine `src/sim/minerals.js` (one implementation for verbs, month, E7 gate, UI): new monthly phase `minerals` (system `resources`) after research. Every SAP program declares tranche inputs by role slot. A tranche the stockpile cannot cover is paid, queued and fed first-in first-out from monthly inflow: delivery time = shortfall / inflow, never cancelled; the toast and the Defense card name the binding mineral and months left.
+- AI processors control exports to you at tension >= 60, while you sanction or embargo them, or while they embargo you (never while bloc partners under your pact).
+- Levers: processing plant ($1,800M, 36 months, +5/mo, $15M/mo upkeep, capacity <= 120), offtake (36 months, relation-priced, refused by a controlling partner, paused while it controls), strategic reserve (buy 10 units, hold, release 5/mo), recycling (+1/mo, $20M/mo; not enrichment), allied processing pact (bloc partners x3 share, $60M/mo), export controls on minerals you process (lost sales = output x price x 5%/mo, relations -8 outside your bloc, rivals that do not refine it lose up to 50% of R&D growth by your world share).
+- E7: the minerals gate is now secure monthly supply (home processing + recycling + offtake + pact) of the program's binding mineral >= 1/mo, and Partners/Co-developers draw 1/mo from their stockpile. Replaces the rare-earth extraction/import-contract stand-in.
+- State: `minerals` (new save key; old saves get the start position). Five invariants: stocks non-negative, capacity/stockpile/reserve bounded; plants and deals well-formed; controls only on processed minerals; AI controls never keyed by the player; queued tranches 0 < left <= need. Test hooks `__wl.minerals(patch)`, `__wl.mineral(id, patch)`.
+- UI (minimal; E5 redesigns): Resources tab minerals view, one tappable row per mineral with every lever; Defense program cards show supply %, the short mineral and per-tranche inputs.
+- Tests: `test/minerals.test.js` (13, incl. done-when: Chinese controls on an emptied stockpile slow an F-35 tranche from 1 to 5 months (gallium binds), a gallium plant cuts it to 2 (rare earths then bind); 240-month lever fuzz x4 nations), `test/layout.test.js` minerals rows at 390px, E7 tests moved to the real gate. Parity: no case re-baselined; `minerals` is dropped before hashing and no scripted tranche waits on minerals, so all five goldens stay byte-identical. 390px screenshots `reports/screens/e4-minerals-390.png`, `e4-slowdown-390.png`.
+
 ## 0.66.1 (2026-10-10) — E9 (#23): Active issues / intelligence briefs loop works
 - Diagnosis (120 months, 14 runs): 0-2 issues spawned per run (USA/Germany/Russia 0), the trigger-flip filter removed 1 unexamined issue (Brazil) before the player could act. Deployed briefs applied 67-100% of promised deltas, so effects were fine; spawning, persistence and surfacing were the dead parts.
 - Rule change (intentional, parity with v57 ends for issues): `src/sim/issues.js` replaces the "New issues" block. Issues surface from `sev >= 0.7` (`ISSUES[*].sev`, 1 = hard trigger) on a 6-10 month cadence (`issue_next` in `actionCooldowns`, no rng), persist 12 months unexamined / 12 briefed with a visible `ttl`, then lapse. Finished types stay away 6 months. No trigger-flip removal. `g.issues` holds live issues only.
